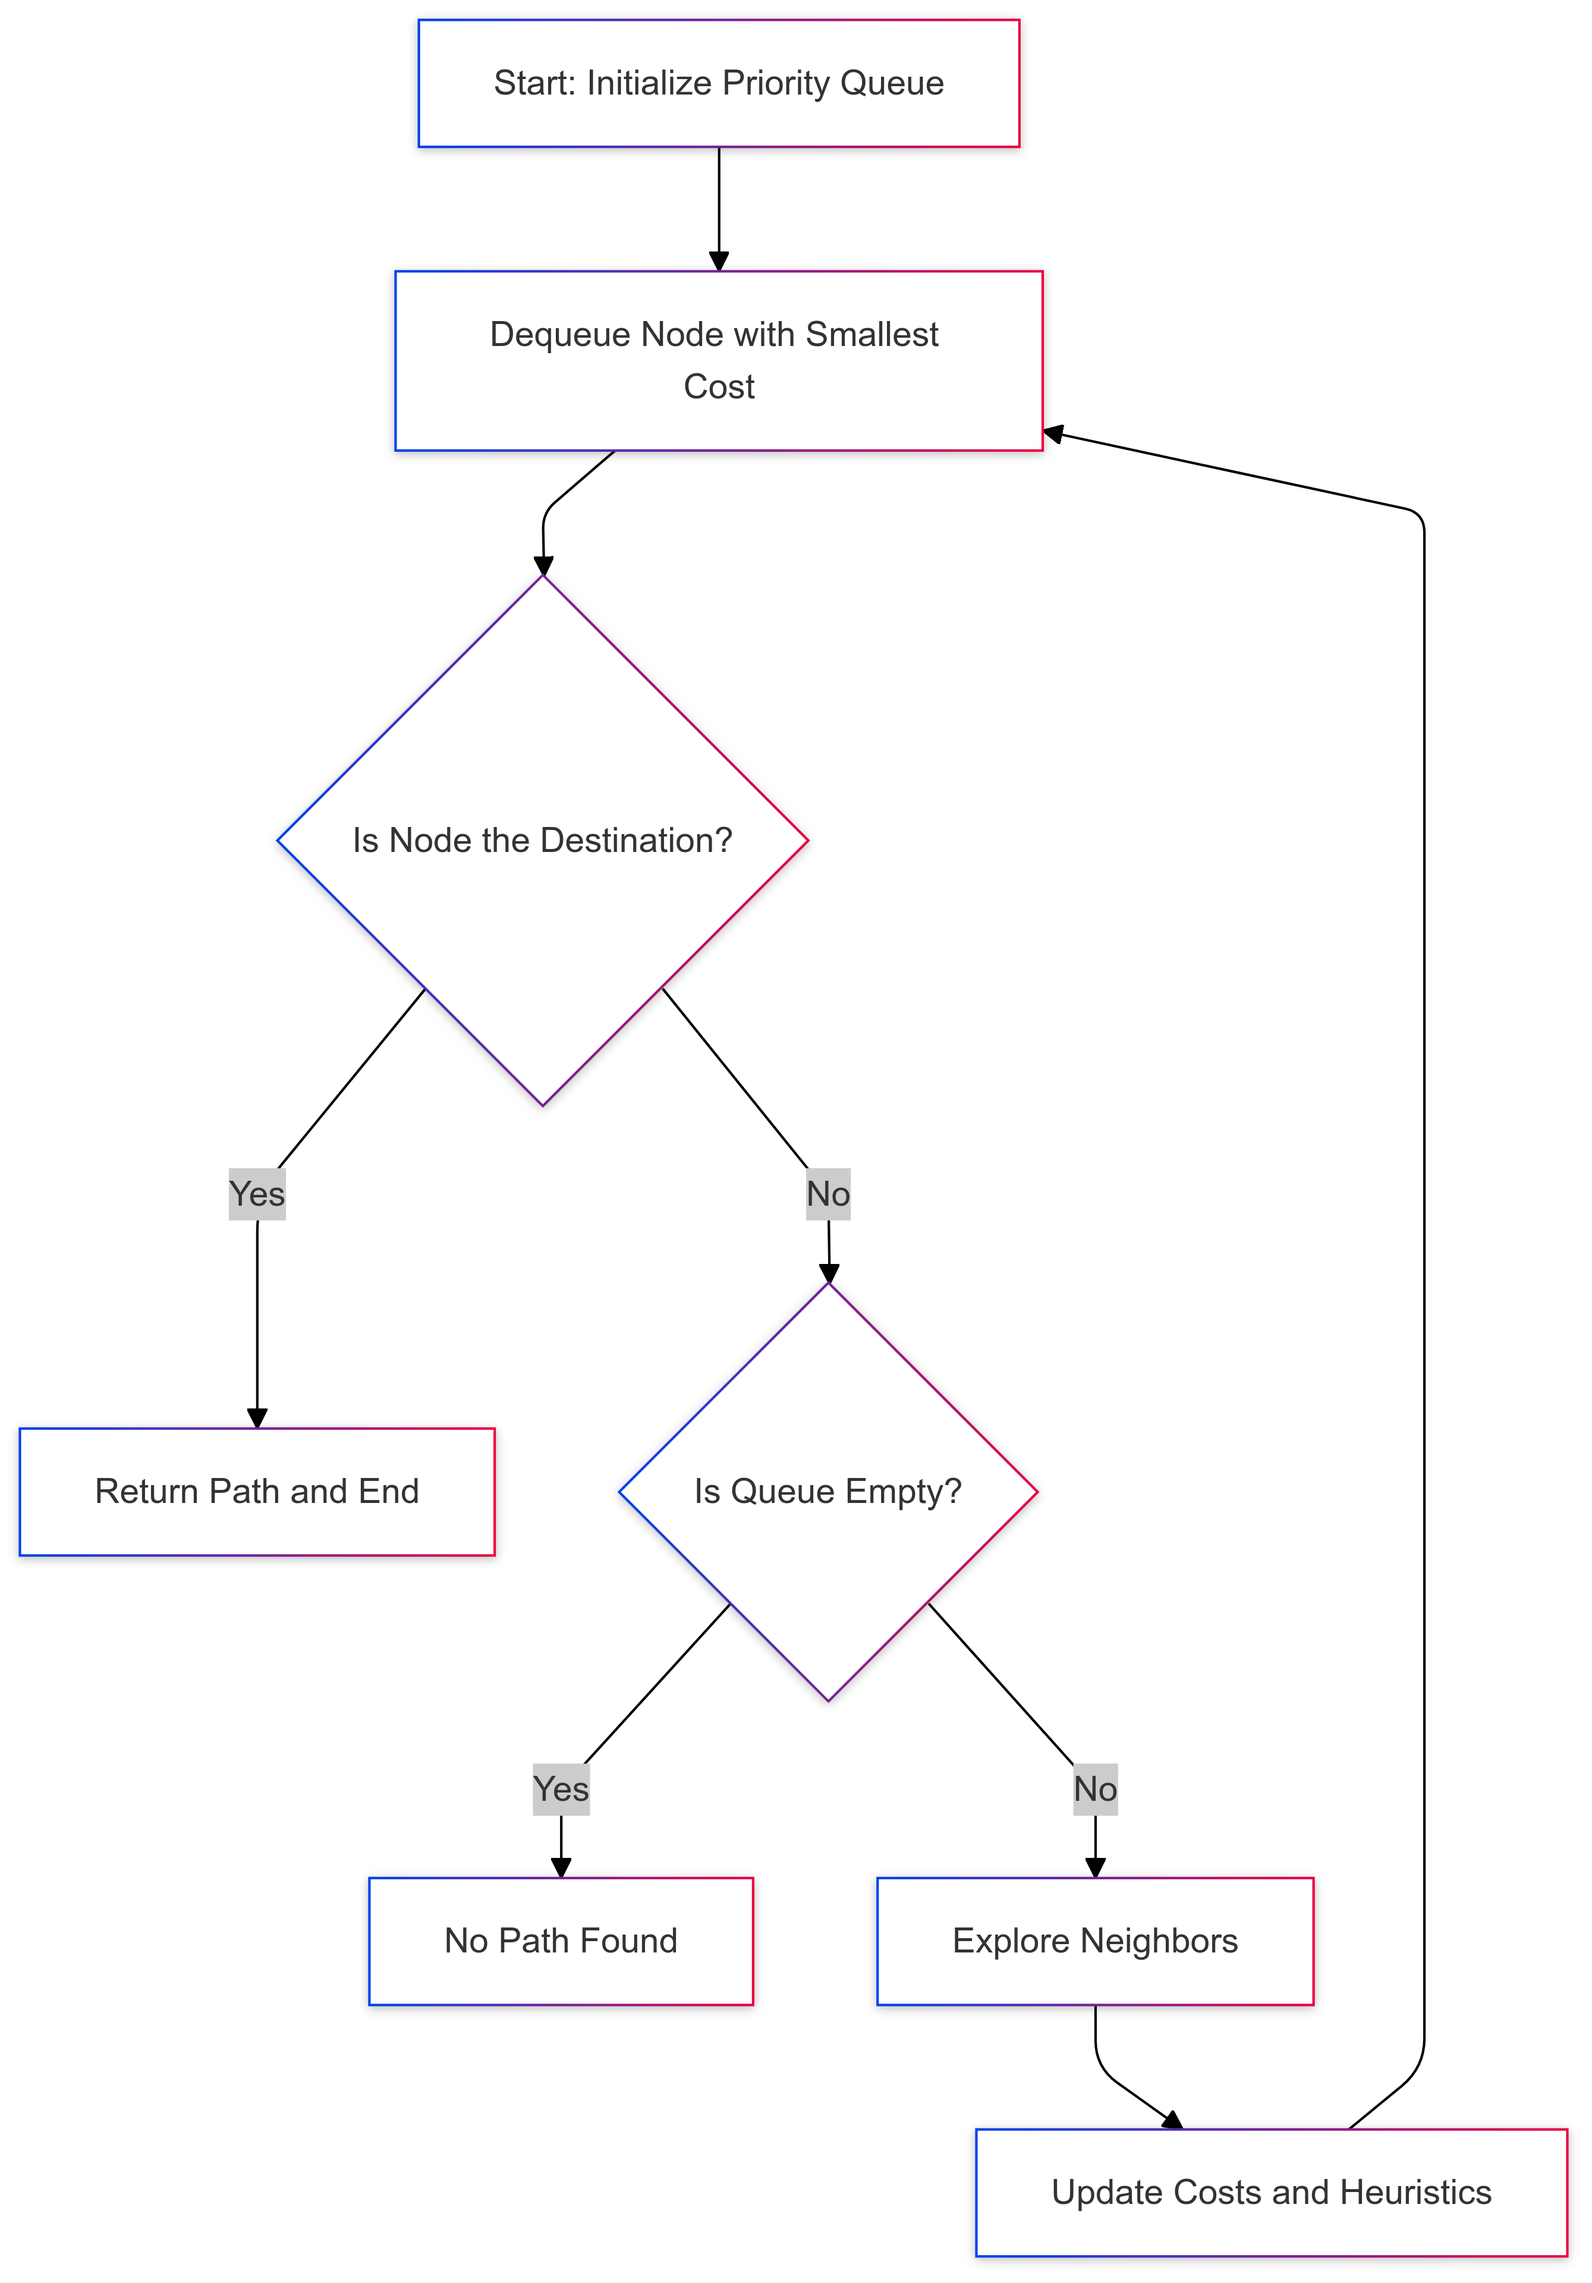
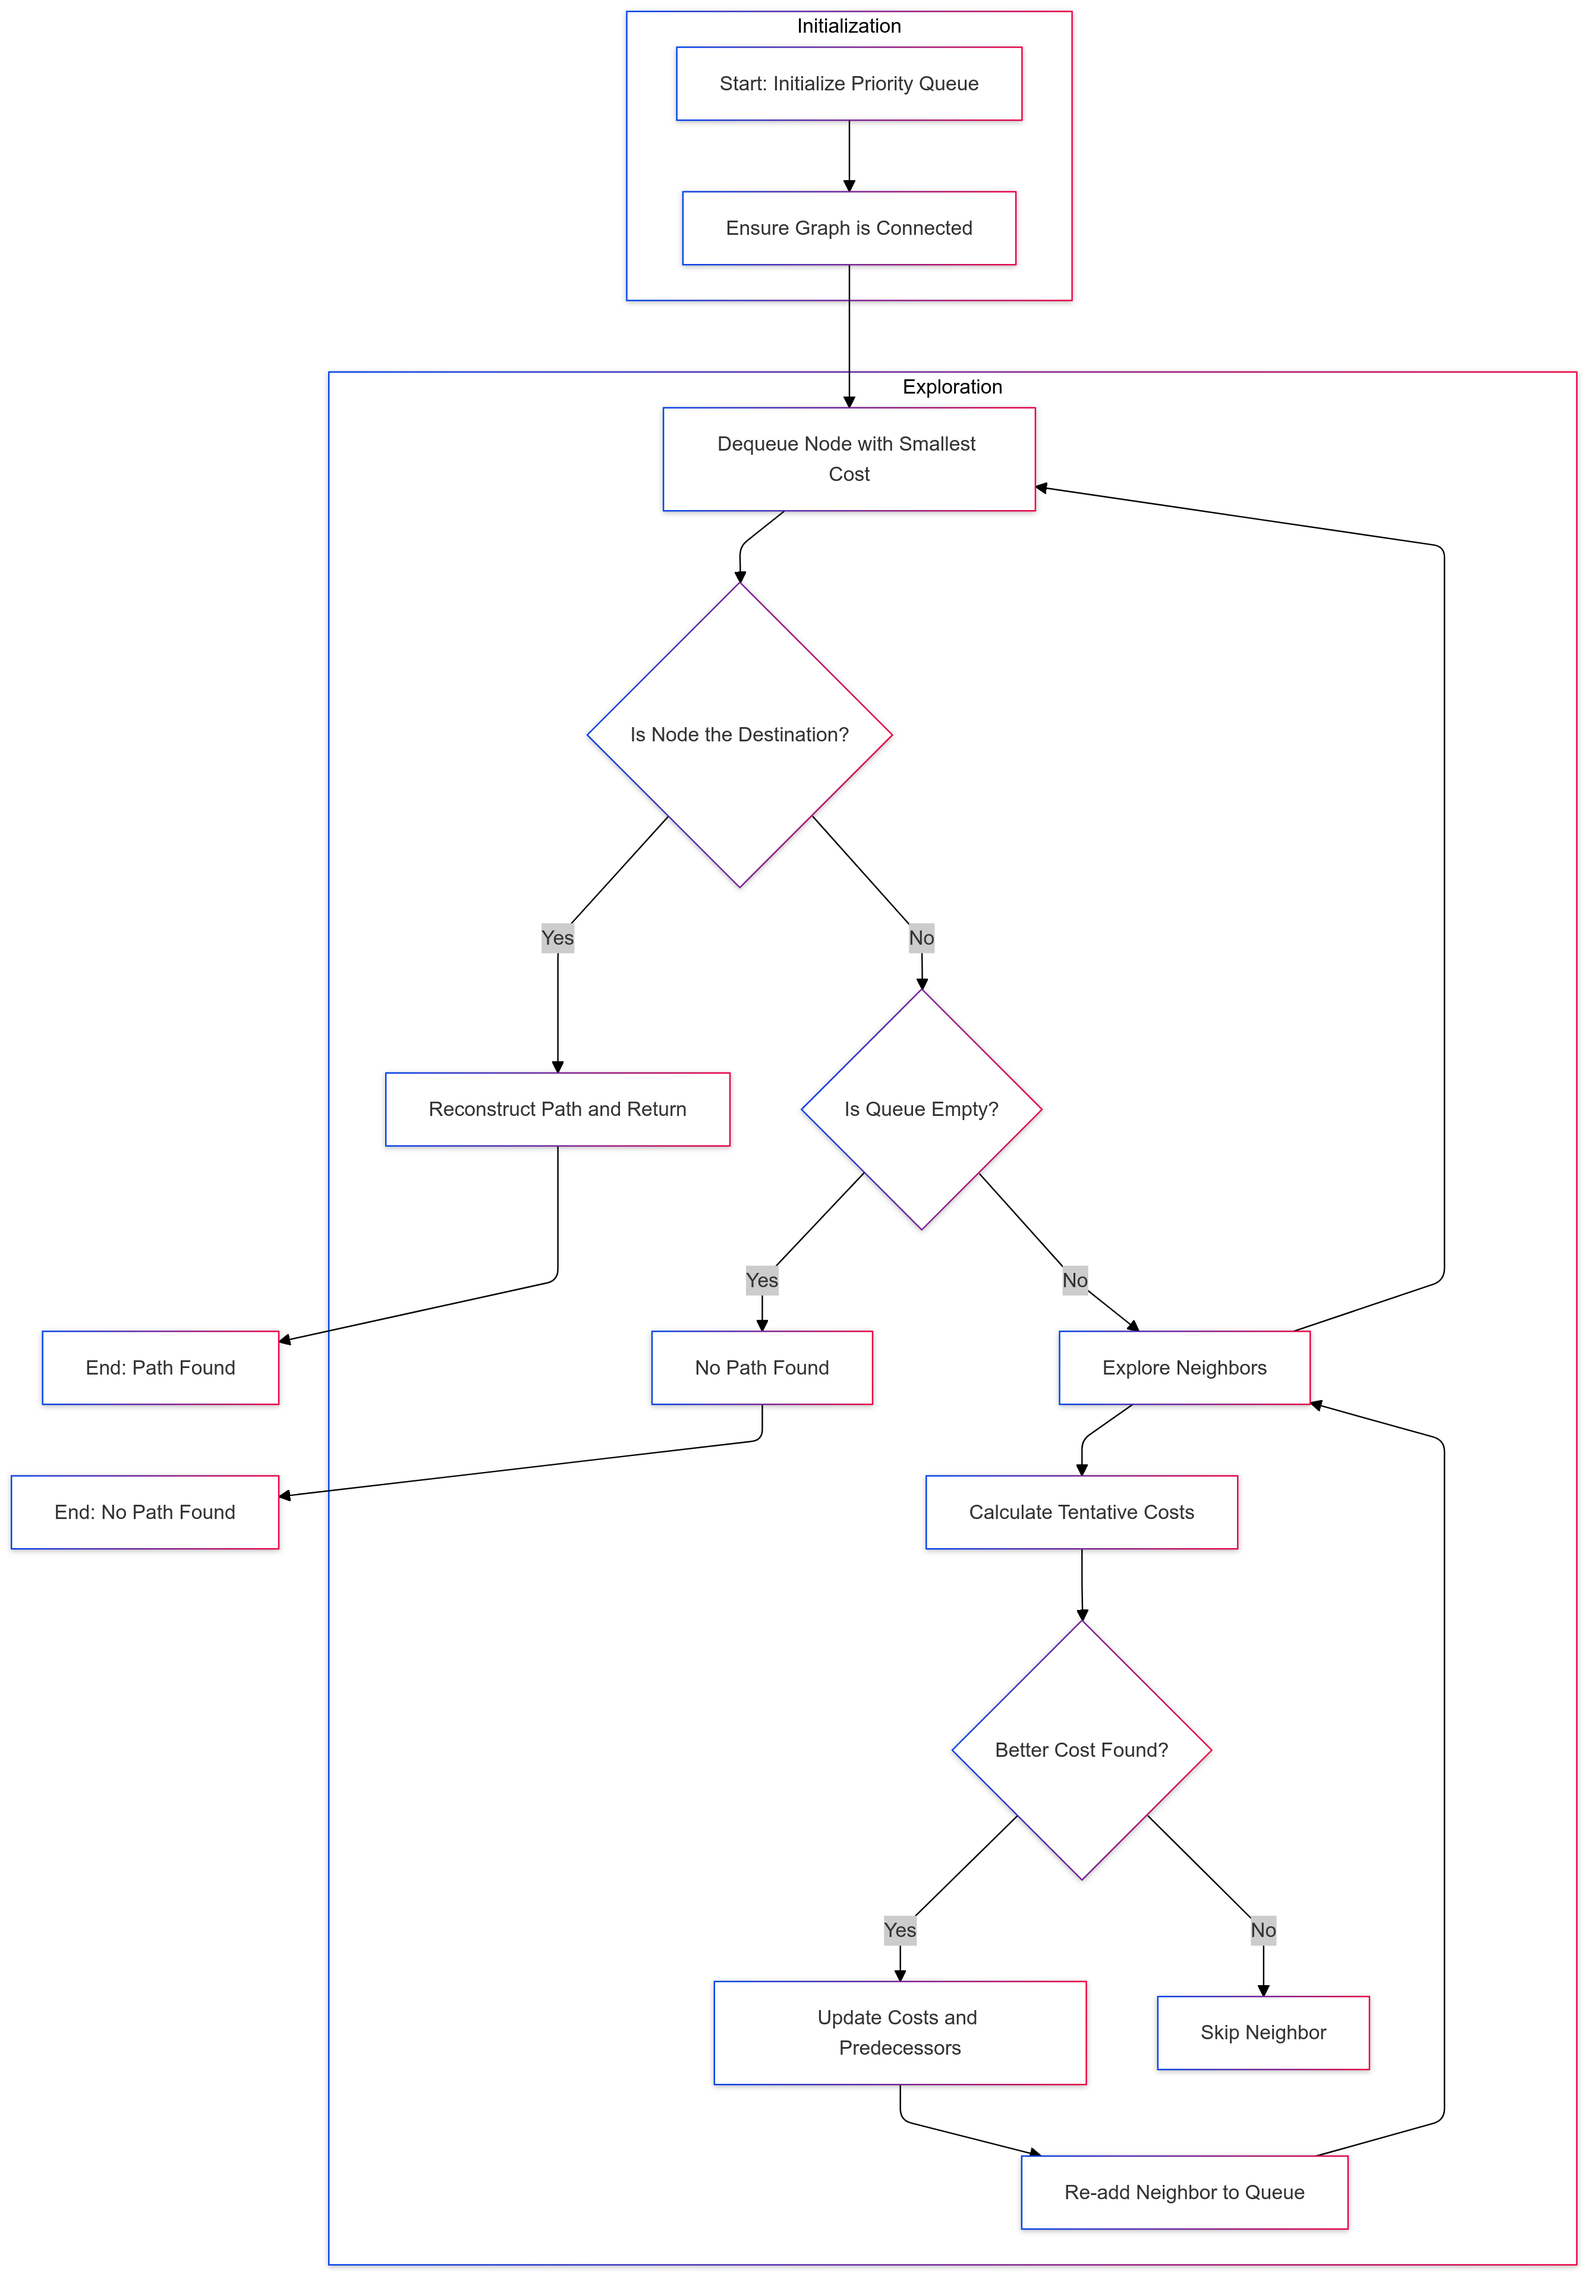
followed qa part 6

diff --git a/documents/technical_specifications/technical_specifications.md b/documents/technical_specifications/technical_specifications.md
@@ -25,11 +25,12 @@
     - [5.1 Technology Stack](#51-technology-stack)
     - [5.2 REST API Design](#52-rest-api-design)
     - [5.3 Algorithm Design](#53-algorithm-design)
+  - [6. Implementation and Testing](#6-implementation-and-testing)
     - [6.1 Path Calculation](#61-path-calculation)
       - [Overview](#overview)
       - [Workflow](#workflow)
       - [Optimization Techniques](#optimization-techniques)
-      - [Concurrency Handling](#concurrency-handling)
+      - [Disconnected Graphs](#disconnected-graphs)
       - [Edge Cases](#edge-cases)
     - [6.2 Data Validation Tool](#62-data-validation-tool)
       - [Overview](#overview-1)
@@ -38,9 +39,11 @@
       - [Efficiency Measures](#efficiency-measures)
     - [6.3 Performance Testing](#63-performance-testing)
       - [Overview](#overview-2)
-      - [Key Tests](#key-tests)
+      - [Testing](#testing)
+      - [Stress Testing](#stress-testing-1)
+      - [Latency Measurement](#latency-measurement)
+      - [Failure Rate](#failure-rate)
       - [Automation](#automation)
-      - [Metrics Collected](#metrics-collected)
       - [Scalability Testing](#scalability-testing)
   - [7. Non-Functional Requirements](#7-non-functional-requirements)
     - [7.1 Response Time](#71-response-time)
@@ -372,6 +375,8 @@ The algorithm computes the quickest path between two landmarks. Its design focus
 
 ---
 
+## 6. Implementation and Testing
+
 ### 6.1 Path Calculation
 
 #### Overview
@@ -387,15 +392,26 @@ The path calculation system is the core functionality of the project, leveraging
 
 2. **Exploration**:
 
-   - At each step, the node with the lowest estimated cost is dequeued, and its neighbors are examined.
-   - The travel time to each neighbor is updated if a shorter path is found, and the neighbor is added to the queue with the updated cost.
+   - At each step, the node with the lowest estimated cost (actual cost + heuristic) is dequeued, and its neighbors are evaluated.
+   - For each neighbor:
+     - Calculate the tentative cost (current cost + edge weight to neighbor).
+     - If the tentative cost is lower than the previously recorded cost for the neighbor, update the cost and set the current node as the predecessor.
+     - Add the neighbor to the priority queue with its updated cost.
+   - Track visited nodes to prevent re-evaluating paths unnecessarily.
 
 3. **Heuristic Evaluation**:
 
-   - The heuristic function estimates the travel time to the destination (`landmark_2`) based on available data, ensuring efficient exploration.
+   - The heuristic function estimates the cost from a node to the destination. This function is designed to:
+     - Underestimate the actual cost (to maintain A\*'s correctness).
+     - Prioritize nodes that are closer to the destination based on estimated travel time.
+   - For this project, the heuristic could be based on:
+     - Straight-line distance (if coordinates are available).
+     - Historical average travel times.
 
 4. **Termination**:
-   - The algorithm terminates when the destination node is dequeued or the priority queue is empty (indicating no valid path).
+   - The algorithm terminates when:
+     - The destination node (`landmark_2`) is dequeued, in which case the path is reconstructed using the predecessor list.
+     - The priority queue is empty, indicating no valid path exists.
 
 #### Optimization Techniques
 
@@ -404,19 +420,16 @@ The path calculation system is the core functionality of the project, leveraging
 - **Path Caching**:
   - Frequently queried paths are cached in memory to reduce redundant calculations for commonly requested routes.
 
-#### Concurrency Handling
+#### Disconnected Graphs
 
-While the system is not designed to handle massive traffic, basic concurrency support ensures it can process up to 5 simultaneous queries without significant degradation. Thread pooling manages resource allocation effectively.
+Disconnected graphs are identified during preprocessing (see **6.2**) and are flagged as errors. The algorithm itself only operates on validated, connected graphs.
 
 #### Edge Cases
 
 - **Identical Landmarks**:
   - Return a time of `0` with an empty path.
-- **Disconnected Graph**:
 
-  - Respond with an appropriate error when no path exists.
-
-  ![Algorithm](/documents/images/Algorithm.png)
+![Algorithm](/documents/images/Algorithm.png)
 
 ---
 
@@ -446,8 +459,8 @@ The data validation tool ensures the integrity and usability of the dataset befo
    - For subgraphs expected to be acyclic (e.g., in specific regions), detect cycles using a Depth-First Search (DFS).
 
 5. **Output**:
-   - Generate a clean dataset for integration into the application.
-   - Log errors in a structured format (e.g., JSON or plain text) for review.
+   - The tool outputs a list of detected errors, categorized as format issues, duplicates, disconnected nodes, or cycles.
+   - The dataset is flagged as invalid if any errors are found.
 
 #### Correction Mechanisms
 
@@ -472,44 +485,47 @@ The data validation tool ensures the integrity and usability of the dataset befo
 
 Performance testing validates that the system meets its response time and scalability requirements under realistic conditions.
 
-#### Key Tests
+#### Testing
 
-1. **Unit Testing**:
+- **General Testing**:
+  - Verify correctness of individual components (e.g., A\* algorithm, graph construction).
+  - Validate that the REST API responds correctly to all input scenarios, including edge cases.
 
-   - Verify the correctness of individual components, such as the A\* algorithm, graph construction, and REST API functionality.
+#### Stress Testing
 
-2. **Stress Testing**:
+Simulate concurrent queries to assess system behavior under load:
 
-   - Simulate up to 20 concurrent queries to assess system behavior under light traffic conditions.
-   - Measure the maximum number of queries processed without exceeding the 1-second response time.
+- Up to 20 concurrent queries are tested to reflect realistic usage scenarios.
+- Metrics are collected for response time and resource usage under different loads.
 
-3. **Latency Measurement**:
+#### Latency Measurement
 
-   - Measure average and maximum response times for queries with:
-     - Small datasets (~10,000 nodes).
-     - Medium datasets (~1 million nodes).
-     - Large datasets (~24 million nodes).
+Measure average and maximum response times for queries with:
 
-4. **Error Simulation**:
-   - Test the system’s handling of invalid inputs (e.g., nonexistent landmarks) and disconnected graphs.
+- Small datasets (~10,000 nodes).
+- Medium datasets (~1 million nodes).
+- Large datasets (~24 million nodes).
+
+#### Failure Rate
+
+Failures are defined as:
+
+1. Responses exceeding the 1-second response time threshold.
+2. Incorrect results due to concurrency issues or resource contention.
+
+The failure rate should remain below 5% under concurrent load scenarios. Higher load may cause failures due to:
+
+- Resource contention (e.g., insufficient threads or memory).
+- Latency from increased queuing or thread scheduling.
 
 #### Automation
 
-- Performance tests are automated using a combination of **Google Test** for unit testing and **Apache JMeter** for simulating concurrent queries.
-- A CI/CD pipeline ensures performance metrics are evaluated for every build.
-
-#### Metrics Collected
-
-- **Average Response Time**:
-  - Target: <1 second for valid queries.
-- **Maximum Response Time**:
-  - Should not exceed 1.5 seconds in stress scenarios.
-- **Failure Rate**:
-  - Should remain below 5% under concurrent load.
+- Tests are automated using **Google Test** and **Apache JMeter**.
+- A CI/CD pipeline ensures consistent validation of performance metrics.
 
 #### Scalability Testing
 
-- Gradually increase dataset size and query frequency to evaluate how performance degrades.
+- Gradually increase dataset size and query frequency to evaluate performance degradation.
 - Identify bottlenecks and suggest potential optimizations for future iterations.
 
   ![Testing](/documents/images/Testing.png)
